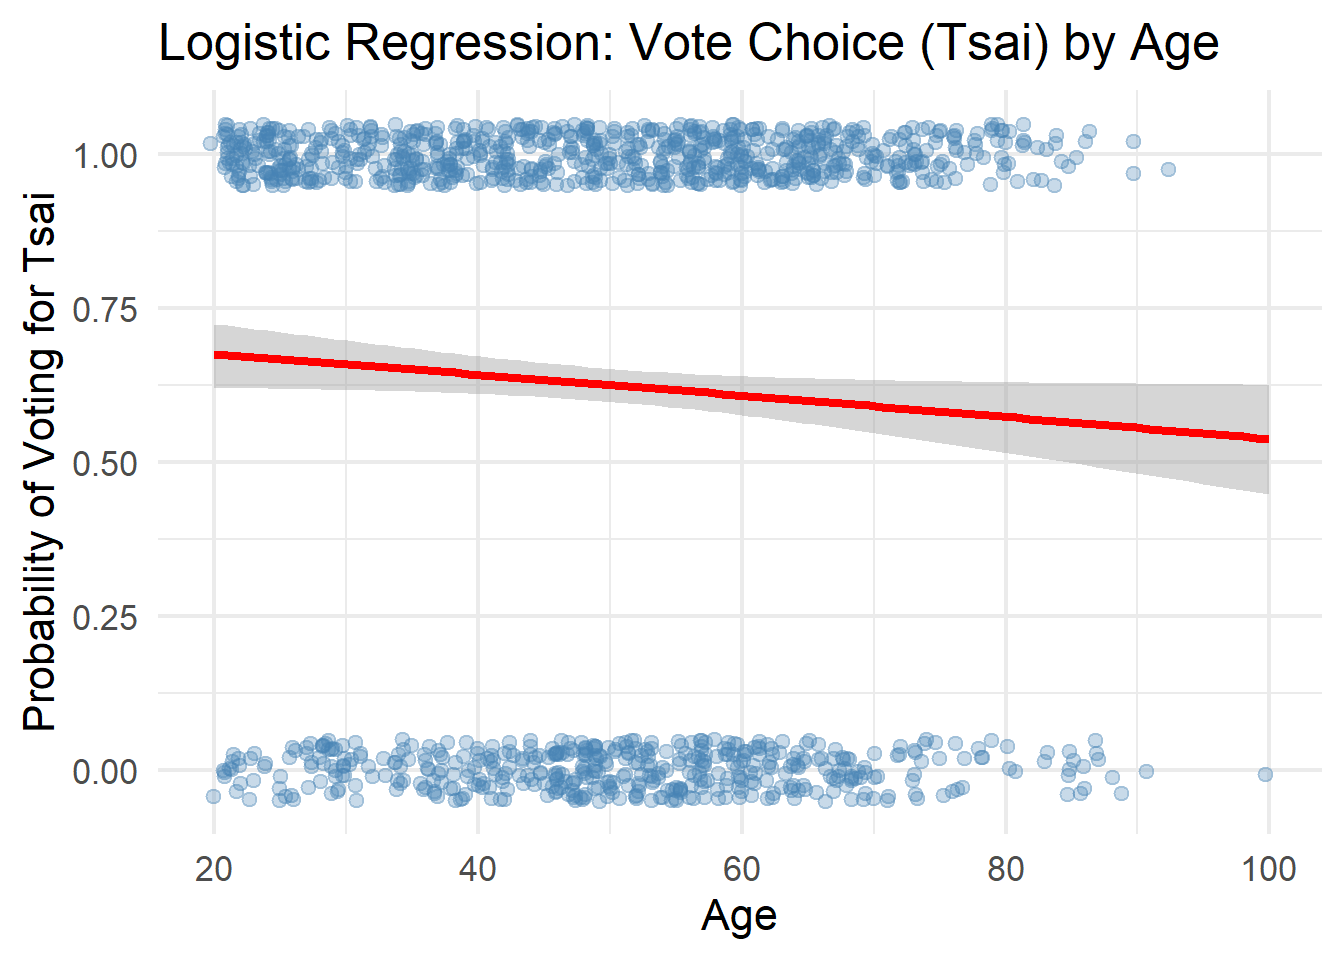
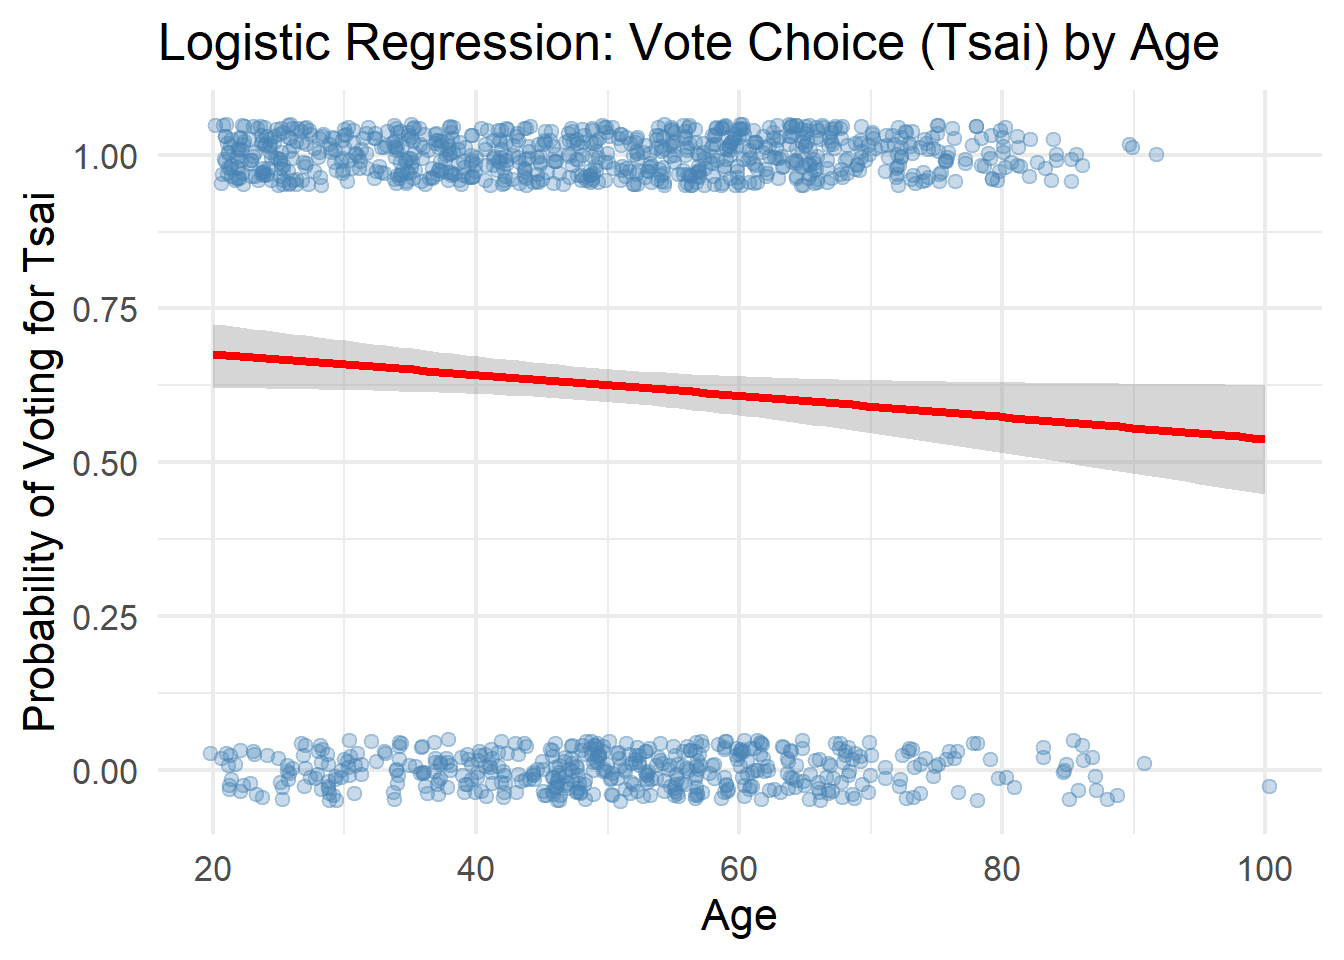
Update all rendered HTML files and outputs

diff --git a/assignment03.html b/assignment03.html
@@ -227,34 +227,34 @@ ul.task-list li input[type="checkbox"] {
 <section id="setup-packages-and-data" class="level2">
 <h2 class="anchored" data-anchor-id="setup-packages-and-data">Setup: Packages and Data</h2>
 <pre class="{r} library(haven) library(tidyverse)}"><code></code></pre>
-<p><code>vyy TEDS_2016 &lt;- read_stata("https://github.com/datageneration/home/blob/master/DataProgramming/data/TEDS_2016.dta?raw=true")}</code></p>
+<p><code>rrr TEDS_2016 &lt;- read_stata("https://github.com/datageneration/home/blob/master/DataProgramming/data/TEDS_2016.dta?raw=true")}</code></p>
 <hr>
 </section>
 <section id="multiple-regression-model" class="level2">
 <h2 class="anchored" data-anchor-id="multiple-regression-model">1. Multiple Regression Model</h2>
 <p>I am using <code>votetsai</code> as the dependent variable and <code>Age</code>, <code>Education</code>, and <code>Income</code> as predictors.</p>
-<p><code>vyy model &lt;- lm(votetsai ~ Age + Edu + income, data = TEDS_2016) summary(model)}</code></p>
+<p><code>rrr model &lt;- lm(votetsai ~ Age + Edu + income, data = TEDS_2016) summary(model)}</code></p>
 <hr>
 </section>
 <section id="the-regplot-function" class="level2">
 <h2 class="anchored" data-anchor-id="the-regplot-function">2. The <code>regplot</code> Function</h2>
 <p>Now I am creating a function that combines <code>lm()</code>, <code>plot()</code>, and <code>abline()</code> to plot a regression fit line.</p>
-<p><code>vyy regplot &lt;- function(x, y) {   fit &lt;- lm(y ~ x)   plot(x, y)   abline(fit, col = "red") }</code></p>
+<p><code>rrr regplot &lt;- function(x, y) {   fit &lt;- lm(y ~ x)   plot(x, y)   abline(fit, col = "red") }</code></p>
 <hr>
 </section>
 <section id="running-regplot-on-the-dependent-variable" class="level2">
 <h2 class="anchored" data-anchor-id="running-regplot-on-the-dependent-variable">3. Running <code>regplot</code> on the Dependent Variable</h2>
 <section id="a.-vote-choice-by-age" class="level3">
 <h3 class="anchored" data-anchor-id="a.-vote-choice-by-age">a. Vote Choice by Age</h3>
-<p><code>vyy regplot(TEDS_2016$Age, TEDS_2016$votetsai) title(main = "Vote Choice (Tsai) by Age", xlab = "Age", ylab = "Vote (0 = Other, 1 = Tsai)")}</code></p>
+<p><code>rrr regplot(TEDS_2016$Age, TEDS_2016$votetsai) title(main = "Vote Choice (Tsai) by Age", xlab = "Age", ylab = "Vote (0 = Other, 1 = Tsai)")}</code></p>
 </section>
 <section id="b.-vote-choice-by-education" class="level3">
 <h3 class="anchored" data-anchor-id="b.-vote-choice-by-education">b. Vote Choice by Education</h3>
-<p><code>vyy regplot(TEDS_2016$Edu, TEDS_2016$votetsai) title(main = "Vote Choice (Tsai) by Education", xlab = "Education", ylab = "Vote (0 = Other, 1 = Tsai)")}</code></p>
+<p><code>rrr regplot(TEDS_2016$Edu, TEDS_2016$votetsai) title(main = "Vote Choice (Tsai) by Education", xlab = "Education", ylab = "Vote (0 = Other, 1 = Tsai)")}</code></p>
 </section>
 <section id="c.-vote-choice-by-income" class="level3">
 <h3 class="anchored" data-anchor-id="c.-vote-choice-by-income">c.&nbsp;Vote Choice by Income</h3>
-<p><code>vyy regplot(TEDS_2016$income, TEDS_2016$votetsai) title(main = "Vote Choice (Tsai) by Income", xlab = "Income", ylab = "Vote (0 = Other, 1 = Tsai)")}</code></p>
+<p><code>rrr regplot(TEDS_2016$income, TEDS_2016$votetsai) title(main = "Vote Choice (Tsai) by Income", xlab = "Income", ylab = "Vote (0 = Other, 1 = Tsai)")}</code></p>
 <hr>
 </section>
 </section>
@@ -272,11 +272,11 @@ ul.task-list li input[type="checkbox"] {
 <section id="what-can-be-done-to-improve-prediction" class="level2">
 <h2 class="anchored" data-anchor-id="what-can-be-done-to-improve-prediction">5. What Can Be Done to Improve Prediction?</h2>
 <p>Since the dependent variable is binary, logistic regression is the appropriate model. It models the log-odds of the outcome and constrains predictions between 0 and 1.</p>
-<p><code>vyy logit_model &lt;- glm(votetsai ~ Age + Edu + income,                    data = TEDS_2016,                    family = binomial) summary(logit_model)}</code></p>
+<p><code>rrr logit_model &lt;- glm(votetsai ~ Age + Edu + income,                    data = TEDS_2016,                    family = binomial) summary(logit_model)}</code></p>
 <p>We can visualize the logistic fit for Age:</p>
-<p><code>vyy TEDS_2016_clean &lt;- TEDS_2016 %&gt;%   dplyr::select(votetsai, Age, Edu, income) %&gt;%   drop_na()  ggplot(TEDS_2016_clean, aes(x = Age, y = votetsai)) +   geom_jitter(height = 0.05, alpha = 0.3, color = "steelblue") +   geom_smooth(method = "glm",               method.args = list(family = binomial),               se = TRUE,               color = "red") +   labs(title = "Logistic Regression: Vote Choice (Tsai) by Age",        x = "Age", y = "Probability of Voting for Tsai") +   theme_minimal(base_size = 16)}</code></p>
-<p><code>vyy ggplot(TEDS_2016_clean, aes(x = Edu, y = votetsai)) +   geom_jitter(height = 0.05, alpha = 0.3, color = "steelblue") +   geom_smooth(method = "glm",               method.args = list(family = binomial),               se = TRUE,               color = "red") +   labs(title = "Logistic Regression: Vote Choice (Tsai) by Education",        x = "Education", y = "Probability of Voting for Tsai") +   theme_minimal(base_size = 16)}</code></p>
-<p><code>vyy ggplot(TEDS_2016_clean, aes(x = income, y = votetsai)) +   geom_jitter(height = 0.05, alpha = 0.3, color = "steelblue") +   geom_smooth(method = "glm",               method.args = list(family = binomial),               se = TRUE,               color = "red") +   labs(title = "Logistic Regression: Vote Choice (Tsai) by Income",        x = "Income", y = "Probability of Voting for Tsai") +   theme_minimal(base_size = 16)}</code></p>
+<p><code>rrr TEDS_2016_clean &lt;- TEDS_2016 %&gt;%   dplyr::select(votetsai, Age, Edu, income) %&gt;%   drop_na()  ggplot(TEDS_2016_clean, aes(x = Age, y = votetsai)) +   geom_jitter(height = 0.05, alpha = 0.3, color = "steelblue") +   geom_smooth(method = "glm",               method.args = list(family = binomial),               se = TRUE,               color = "red") +   labs(title = "Logistic Regression: Vote Choice (Tsai) by Age",        x = "Age", y = "Probability of Voting for Tsai") +   theme_minimal(base_size = 16)}</code></p>
+<p><code>rrr ggplot(TEDS_2016_clean, aes(x = Edu, y = votetsai)) +   geom_jitter(height = 0.05, alpha = 0.3, color = "steelblue") +   geom_smooth(method = "glm",               method.args = list(family = binomial),               se = TRUE,               color = "red") +   labs(title = "Logistic Regression: Vote Choice (Tsai) by Education",        x = "Education", y = "Probability of Voting for Tsai") +   theme_minimal(base_size = 16)}</code></p>
+<p><code>rrr ggplot(TEDS_2016_clean, aes(x = income, y = votetsai)) +   geom_jitter(height = 0.05, alpha = 0.3, color = "steelblue") +   geom_smooth(method = "glm",               method.args = list(family = binomial),               se = TRUE,               color = "red") +   labs(title = "Logistic Regression: Vote Choice (Tsai) by Income",        x = "Income", y = "Probability of Voting for Tsai") +   theme_minimal(base_size = 16)}</code></p>
 
 
 </section>